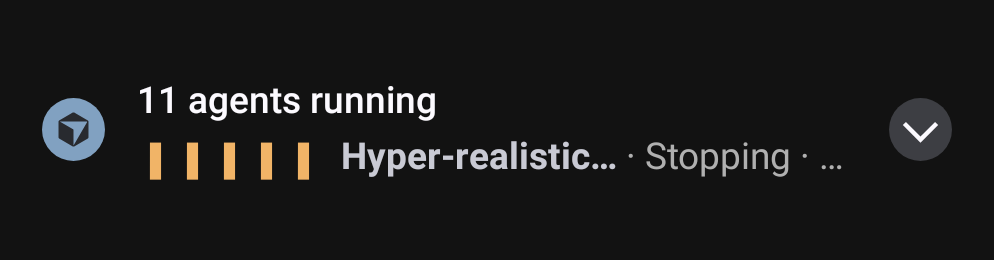
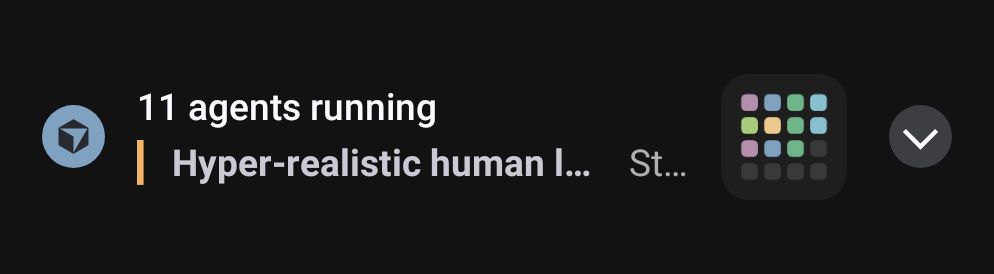
Live notifications: fleet mosaic and inbox rows for the roster card
Text-drawn progress bars are gone: Android 16 strips colour from promoted
text, so they degraded to tally marks. The roster's large icon is now a
mosaic of the fleet — a small tile per running agent in its hue on a grid
that grows with the count — and the rows read like an inbox: bold name,
muted verb and age, with a thin colour edge per agent below Android 16 and
a dot separator where colour cannot show.

diff --git a/app/src/main/java/com/cursorforandroid/notifications/LiveNotificationRenderer.kt b/app/src/main/java/com/cursorforandroid/notifications/LiveNotificationRenderer.kt
@@ -43,10 +43,11 @@ import com.cursorforandroid.util.TimeFormat
  *    has no room for the step), a determinate bar walks the run, a Stop action cancels it, and a cube tile in the
  *    agent's hue fills the large-icon slot. Android 16 promotes it as a `ProgressStyle` Live Update.
  *  - **Several running agents:** the roster card — one `BigTextStyle` notification (a promotable style; `InboxStyle`
- *    is not) with a row per tracked agent: a six-cell bar lit to the agent's progress, the name in bold, the verb
- *    and the elapsed time. Below Android 16 the bar takes the agent's hue; 16 strips colour spans from promoted
- *    text, so the bar's shape and the bold carry the row there. Stopping sorts first, then longest-running; agents
- *    beyond the tracking cap are a `+N more` tail row. The chip is the count. Tap opens the app.
+ *    is not). The large-icon slot holds a mosaic of the fleet, one small tile per running agent in its hue; the
+ *    body is a row per tracked agent — name in bold, verb and elapsed time muted, and below Android 16 a thin edge
+ *    in the agent's hue (16 strips colour spans from promoted text, so there the rows are plain bold-and-muted).
+ *    Stopping sorts first, then longest-running; agents beyond the tracking cap are a `+N more` tail row. The chip
+ *    is the count. Tap opens the app.
  *  - **A finished agent:** a dismissible card with "Finished", the title, "+80 −230 · 3 Files" (or the duration when
  *    no tool reported line counts), the final reply, and Review / View PR actions.
  *
@@ -65,8 +66,7 @@ object LiveNotificationRenderer {
     private const val GIT_REMOVED = 0xFFFC6B83.toInt()
     /** Ink for the cube on a tile: the theme's `onAccent`. */
     private const val TILE_INK = 0xFF191C22.toInt()
-    /** The hollow cells of a roster bar, and the muted text beside it. */
-    private const val BAR_TRACK = 0x66FFFFFF
+    /** The verb and age beside a roster name. */
     private const val MUTED = 0xFFB0B0B0.toInt()
     /** Cursor Dark's accent hues, dealt to agents by id so rows are told apart at a glance. */
     private val TILE_HUES = intArrayOf(
@@ -77,16 +77,17 @@ object LiveNotificationRenderer {
         0xFFEBC88D.toInt(), // code function
         0xFFA8CC7C.toInt(), // code string
     )
-    /** Roster bar: [BAR_CELLS] rectangles, lit (U+25AE) up to the journey progress and hollow (U+25AF) beyond. */
-    private const val BAR_CELLS = 5
-    private const val BAR_LIT = '\u25AE'
-    private const val BAR_HOLLOW = '\u25AF'
-    private const val ROW_GAP = "\u2002"
+    /** Roster row: a left-quarter block (U+258E) as the colour edge, then name, then a two-space column gap. */
+    private const val ROW_EDGE = "\u258E "
+    private const val ROW_GAP = "\u2002\u2002"
     private const val ROW_SEP = " \u00B7 "
-    /** Sized so `▮▮▯▯▯ Market replay en… · Delegating · 52m` stays on one line of the body at 14sp. */
-    private const val ROW_NAME_MAX = 16
+    /** Sized so `▎ Hyper-realistic human li…  Stopping · 6m` stays on one line of the body at 14sp. */
+    private const val ROW_NAME_MAX = 24
     private const val SUMMARY_MAX = 320
     private const val TILE_DP = 56
+    /** Mosaic cells beyond the running agents are this faint, so the grid also reads as a count. */
+    private const val MOSAIC_EMPTY = 0x1FFFFFFF
+    private const val MOSAIC_BG = 0xFF1E1E1E.toInt()
 
     /** Journey bar is 100 units. Phases pin the ends; the current verb walks the middle. */
     internal const val JOURNEY_MAX = 100
@@ -140,7 +141,7 @@ object LiveNotificationRenderer {
         return builder.build()
     }
 
-    /** The roster card: `5 agents running` over one spanned row per tracked agent. */
+    /** The roster card: `11 agents running`, the fleet mosaic, and one row per tracked agent. */
     internal fun roster(context: Context, state: LiveActivityState): Notification {
         val ordered = sortedForRoster(state.running)
         val hues = tileHues(ordered)
@@ -155,7 +156,7 @@ object LiveNotificationRenderer {
             .setStyle(NotificationCompat.BigTextStyle().setBigContentTitle(title).bigText(join(rows + listOfNotNull(tail))))
             .setShortCriticalText(count.toString())
             .setNumber(count)
-            // No tile: the body text flows around a large icon, and the rows want the full width.
+            .setLargeIcon(mosaic(context, ordered.map { hues.getValue(it.agentId) }, count))
             .setWhen(ordered.minOf { it.startedAtMillis })
             .setShowWhen(false)
             .setContentIntent(openApp(context))
@@ -247,23 +248,23 @@ object LiveNotificationRenderer {
     // ---- roster rows --------------------------------------------------------------------------------------
 
     /**
-     * `▮▮▮▮▯▯ Codex-Poly-Bot Scaling · Running · 34m`: a six-cell bar lit up to the agent's journey progress, the
-     * name in bold, then the verb and the age. The bar's *shape* carries the progress, because Android 16 strips
-     * every colour span from a promoted notification (only bold / italic / underline survive); on 15 and below the
-     * lit cells take the agent's [hue] (amber while stopping), the hollow cells and the detail go muted.
+     * `▎ Codex-Poly-Bot Scaling  Running · 34m`: the name in bold, then the verb and age muted, like an inbox row.
+     * Android 16 strips every colour span from a promoted notification (only bold / italic / underline survive), so
+     * there the row is just that; below 16 it opens with a thin edge in the agent's [hue] (amber while stopping).
+     * A white edge on 16 would be noise, so none is drawn where its colour cannot show.
      */
-    internal fun rosterRow(context: Context, run: TrackedRun, hue: Int, nowMillis: Long): CharSequence {
+    internal fun rosterRow(context: Context, run: TrackedRun, hue: Int, nowMillis: Long, colourSurvives: Boolean = Build.VERSION.SDK_INT < 36): CharSequence {
         val row = SpannableStringBuilder()
-        val lit = Math.round(journeyProgress(run) / JOURNEY_MAX.toFloat() * BAR_CELLS).coerceIn(1, BAR_CELLS)
-        row.append(BAR_LIT.toString().repeat(lit)).append(BAR_HOLLOW.toString().repeat(BAR_CELLS - lit))
-        row.setSpan(ForegroundColorSpan(if (run.phase == LivePhase.Stopping) ORANGE else hue), 0, lit, Spanned.SPAN_EXCLUSIVE_EXCLUSIVE)
-        if (lit < BAR_CELLS) row.setSpan(ForegroundColorSpan(BAR_TRACK), lit, BAR_CELLS, Spanned.SPAN_EXCLUSIVE_EXCLUSIVE)
-        row.append(ROW_GAP)
+        if (colourSurvives) {
+            row.append(ROW_EDGE)
+            row.setSpan(ForegroundColorSpan(if (run.phase == LivePhase.Stopping) ORANGE else hue), 0, row.length, Spanned.SPAN_EXCLUSIVE_EXCLUSIVE)
+        }
         val nameAt = row.length
         row.append(ellipsize(run.title, ROW_NAME_MAX))
         row.setSpan(StyleSpan(Typeface.BOLD), nameAt, row.length, Spanned.SPAN_EXCLUSIVE_EXCLUSIVE)
         val detailAt = row.length
-        row.append(ROW_SEP).append(rosterVerb(context, run))
+        // With colour the muted detail separates itself from the name; without it a dot has to.
+        row.append(if (colourSurvives) ROW_GAP else ROW_SEP).append(rosterVerb(context, run))
         row.append(ROW_SEP).append(TimeFormat.relativeShort(run.startedAtMillis, nowMillis))
         row.setSpan(ForegroundColorSpan(MUTED), detailAt, row.length, Spanned.SPAN_EXCLUSIVE_EXCLUSIVE)
         return row
@@ -340,7 +341,43 @@ object LiveNotificationRenderer {
         }
     }
 
-    /** Rounded square in [hue] with the official cube inked on it — the album-art slot on the live card. */
+    /**
+     * The fleet as one image for the roster's large-icon slot: a rounded dark square holding a grid of small tiles,
+     * one per running agent in its hue (the palette cycles past the tracked eight), the remaining cells of the grid
+     * faint — so the mosaic shows how many as well as which. 2×2 up to four agents, 3×3 up to nine, 4×4 beyond.
+     */
+    internal fun mosaic(context: Context, hues: List<Int>, total: Int): Bitmap {
+        val size = (TILE_DP * context.resources.displayMetrics.density).toInt().coerceAtLeast(128)
+        val bitmap = Bitmap.createBitmap(size, size, Bitmap.Config.ARGB_8888)
+        val canvas = Canvas(bitmap)
+        val paint = Paint(Paint.ANTI_ALIAS_FLAG)
+        val radius = size * 0.22f
+        paint.color = MOSAIC_BG
+        canvas.drawRoundRect(0f, 0f, size.toFloat(), size.toFloat(), radius, radius, paint)
+        val grid = mosaicGrid(total)
+        val cells = (0 until grid * grid).map { index -> if (index < total) hues[index % hues.size.coerceAtLeast(1)] else MOSAIC_EMPTY }
+        val inset = size * 0.16f
+        val gap = size * 0.05f
+        val cell = (size - 2 * inset - (grid - 1) * gap) / grid
+        val cellRadius = cell * 0.28f
+        cells.forEachIndexed { index, colour ->
+            val col = index % grid
+            val row = index / grid
+            val left = inset + col * (cell + gap)
+            val top = inset + row * (cell + gap)
+            paint.color = colour
+            canvas.drawRoundRect(left, top, left + cell, top + cell, cellRadius, cellRadius, paint)
+        }
+        return bitmap
+    }
+
+    internal fun mosaicGrid(total: Int): Int = when {
+        total <= 4 -> 2
+        total <= 9 -> 3
+        else -> 4
+    }
+
+    /** Rounded square in [hue] with the official cube inked on it — the album-art slot on the single-agent card. */
     internal fun tile(context: Context, hue: Int): Bitmap {
         val size = (TILE_DP * context.resources.displayMetrics.density).toInt().coerceAtLeast(128)
         val bitmap = Bitmap.createBitmap(size, size, Bitmap.Config.ARGB_8888)

diff --git a/app/src/test/java/com/cursorforandroid/notifications/LiveNotificationRendererTest.kt b/app/src/test/java/com/cursorforandroid/notifications/LiveNotificationRendererTest.kt
@@ -56,8 +56,9 @@ class LiveNotificationRendererTest {
     private fun Notification.actionTitles() = actions.orEmpty().map { it.title.toString() }
     private fun Notification.chip() = NotificationCompat.getShortCriticalText(this)
 
-    /** A roster row without its bar cells and gap, e.g. `Cesium Revenue… · Thinking · 4m`. */
-    private fun String.afterBar() = trimStart('\u25AE', '\u25AF', '\u2002')
+    /** A roster row without its colour edge, e.g. `Cesium Revenue Strategy  Thinking · 4m`. */
+    private fun String.afterEdge() = removePrefix("\u258E ")
+    private fun String.name() = afterEdge().substringBefore('\u2002')
 
     @Test
     fun `single running agent is one promoted card with the step, a chronometer and Stop`() {
@@ -114,21 +115,18 @@ class LiveNotificationRendererTest {
 
         assertThat(n.title()).isEqualTo("3 agents running")
         assertThat(n.extras.getString(Notification.EXTRA_TEMPLATE)).endsWith("BigTextStyle")
-        assertThat(n.rows().map { it.afterBar() }).containsExactly(
-            "Update quick ac\u2026 \u00B7 Editing \u00B7 34m",
-            "Cesium Revenue\u2026 \u00B7 Thinking \u00B7 34m",
-            "Codex-Poly-Bot\u2026 \u00B7 Running \u00B7 34m",
+        assertThat(n.rows().map { it.afterEdge() }).containsExactly(
+            "Update quick action pil\u2026\u2002\u2002Editing \u00B7 34m",
+            "Cesium Revenue Strategy\u2002\u2002Thinking \u00B7 34m",
+            "Codex-Poly-Bot Scaling\u2002\u2002Running \u00B7 34m",
         ).inOrder()
-        // Every row opens with a five-cell bar lit to the step: editing 3, thinking 1, running 3.
-        assertThat(n.rows().map { it.substringBefore('\u2002') }).containsExactly(
-            "\u25AE\u25AE\u25AE\u25AF\u25AF",
-            "\u25AE\u25AF\u25AF\u25AF\u25AF",
-            "\u25AE\u25AE\u25AE\u25AF\u25AF",
-        ).inOrder()
+        // Below Android 16 every row opens with its colour edge.
+        n.rows().forEach { assertThat(it).startsWith("\u258E ") }
         assertThat(n.text()).isEqualTo(n.rows().first())
         assertThat(n.chip()).isEqualTo("3")
         assertThat(n.number).isEqualTo(3)
-        assertThat(n.getLargeIcon()).isNull()
+        // The fleet mosaic sits in the large-icon slot.
+        assertThat(n.getLargeIcon()).isNotNull()
         assertThat(n.extras.getBoolean(Notification.EXTRA_COLORIZED)).isFalse()
         assertThat(n.extras.getBoolean(Notification.EXTRA_SHOW_CHRONOMETER)).isFalse()
         assertThat(n.flags and Notification.FLAG_ONGOING_EVENT).isNotEqualTo(0)
@@ -137,28 +135,41 @@ class LiveNotificationRendererTest {
     }
 
     @Test
-    fun `roster rows light the bar in the agent hue, amber while stopping, with the name in bold`() {
+    fun `roster rows edge in the agent hue, amber while stopping, name in bold, detail muted`() {
         val run = running("bc-1", "Agent")
-        val row = LiveNotificationRenderer.rosterRow(context, run, hue = 0xFFB48EAD.toInt(), nowMillis = startedAt + 90_000) as Spanned
-        val barColors = row.getSpans(0, 5, ForegroundColorSpan::class.java).sortedBy { row.getSpanStart(it) }
-        // Editing sits at 62 of 100: three lit cells, two hollow.
-        assertThat(barColors.map { row.getSpanStart(it) to row.getSpanEnd(it) }).containsExactly(0 to 3, 3 to 5).inOrder()
-        assertThat(barColors.first().foregroundColor).isEqualTo(0xFFB48EAD.toInt())
-        assertThat(barColors.last().foregroundColor).isEqualTo(0x66FFFFFF)
+        val row = LiveNotificationRenderer.rosterRow(context, run, hue = 0xFFB48EAD.toInt(), nowMillis = startedAt + 90_000, colourSurvives = true) as Spanned
+        assertThat(row.toString()).isEqualTo("\u258E Agent\u2002\u2002Editing \u00B7 1m")
+        val edge = row.getSpans(0, 2, ForegroundColorSpan::class.java).single()
+        assertThat(edge.foregroundColor).isEqualTo(0xFFB48EAD.toInt())
+        assertThat(row.getSpanStart(edge) to row.getSpanEnd(edge)).isEqualTo(0 to 2)
         val bold = row.getSpans(0, row.length, StyleSpan::class.java).single()
         assertThat(bold.style).isEqualTo(Typeface.BOLD)
         assertThat(row.subSequence(row.getSpanStart(bold), row.getSpanEnd(bold)).toString()).isEqualTo("Agent")
-        assertThat(row.toString().afterBar()).isEqualTo("Agent \u00B7 Editing \u00B7 1m")
+        val muted = row.getSpans(row.getSpanEnd(bold), row.length, ForegroundColorSpan::class.java).single()
+        assertThat(row.subSequence(row.getSpanStart(muted), row.getSpanEnd(muted)).toString()).isEqualTo("\u2002\u2002Editing \u00B7 1m")
 
-        val stopping = LiveNotificationRenderer.rosterRow(context, run.copy(phase = LivePhase.Stopping), hue = 0xFFB48EAD.toInt(), nowMillis = startedAt) as Spanned
-        assertThat(stopping.toString().substringBefore('\u2002')).isEqualTo("\u25AE".repeat(5))
-        val lit = stopping.getSpans(0, 5, ForegroundColorSpan::class.java).single()
-        assertThat(lit.foregroundColor).isEqualTo(0xFFF1B467.toInt())
-        assertThat(stopping.toString().afterBar()).isEqualTo("Agent \u00B7 Stopping \u00B7 now")
+        val stopping = LiveNotificationRenderer.rosterRow(context, run.copy(phase = LivePhase.Stopping), hue = 0xFFB48EAD.toInt(), nowMillis = startedAt, colourSurvives = true) as Spanned
+        assertThat(stopping.getSpans(0, 2, ForegroundColorSpan::class.java).single().foregroundColor).isEqualTo(0xFFF1B467.toInt())
+        assertThat(stopping.toString()).isEqualTo("\u258E Agent\u2002\u2002Stopping \u00B7 now")
+
+        // Android 16 strips colour from promoted text: no edge, and a dot separates name from verb instead of the gap.
+        val plain = LiveNotificationRenderer.rosterRow(context, run, hue = 0xFFB48EAD.toInt(), nowMillis = startedAt, colourSurvives = false) as Spanned
+        assertThat(plain.toString()).isEqualTo("Agent \u00B7 Editing \u00B7 now")
+        assertThat(plain.getSpans(0, plain.length, StyleSpan::class.java).single().style).isEqualTo(Typeface.BOLD)
 
         // A two-word verb keeps only its first word: the row has no room for the subject.
-        val delegating = LiveNotificationRenderer.rosterRow(context, running("bc-2", "B", activity = RunDigest.Activity("Delegating to", "3 subagents")), hue = 0, nowMillis = startedAt)
-        assertThat(delegating.toString().afterBar()).isEqualTo("B \u00B7 Delegating \u00B7 now")
+        val delegating = LiveNotificationRenderer.rosterRow(context, running("bc-2", "B", activity = RunDigest.Activity("Delegating to", "3 subagents")), hue = 0, nowMillis = startedAt, colourSurvives = false)
+        assertThat(delegating.toString()).isEqualTo("B \u00B7 Delegating \u00B7 now")
+    }
+
+    @Test
+    fun `the fleet mosaic grows its grid with the count`() {
+        assertThat(LiveNotificationRenderer.mosaicGrid(2)).isEqualTo(2)
+        assertThat(LiveNotificationRenderer.mosaicGrid(4)).isEqualTo(2)
+        assertThat(LiveNotificationRenderer.mosaicGrid(5)).isEqualTo(3)
+        assertThat(LiveNotificationRenderer.mosaicGrid(9)).isEqualTo(3)
+        assertThat(LiveNotificationRenderer.mosaicGrid(11)).isEqualTo(4)
+        assertThat(LiveNotificationRenderer.mosaic(context, listOf(0xFF81A1C1.toInt()), 11).width).isAtLeast(128)
     }
 
     @Test
@@ -170,7 +181,7 @@ class LiveNotificationRendererTest {
         assertThat(n.number).isEqualTo(12)
         assertThat(n.chip()).isEqualTo("12")
         assertThat(n.rows()).hasSize(9)
-        assertThat(n.rows().take(8).map { it.afterBar().substringBefore(" \u00B7 ") }).containsExactlyElementsIn((1..8).map { "Agent $it" }).inOrder()
+        assertThat(n.rows().take(8).map { it.name() }).containsExactlyElementsIn((1..8).map { "Agent $it" }).inOrder()
         assertThat(n.rows().last()).isEqualTo("+4 more")
     }
 
@@ -198,7 +209,7 @@ class LiveNotificationRendererTest {
         val newer = running("bc-3", "Newer").copy(startedAtMillis = startedAt + 120_000)
         val n = LiveNotificationRenderer.live(context, LiveActivityState(listOf(newer, older, stopping), hasReconciled = true))
 
-        assertThat(n.rows().map { it.afterBar().substringBefore(" \u00B7 ") }).containsExactly("Stopping now", "Older", "Newer").inOrder()
+        assertThat(n.rows().map { it.name() }).containsExactly("Stopping now", "Older", "Newer").inOrder()
         assertThat(LiveNotificationRenderer.sortedForRoster(listOf(newer, older, stopping)).map { it.agentId })
             .containsExactly("bc-2", "bc-1", "bc-3")
             .inOrder()

diff --git a/app/src/test/java/com/cursorforandroid/screenshots/NotificationScreenshotTest.kt b/app/src/test/java/com/cursorforandroid/screenshots/NotificationScreenshotTest.kt
@@ -84,9 +84,16 @@ class NotificationScreenshotTest {
     @Test
     @Config(sdk = [36])
     fun progressStyleApi36() {
-        capture("32_notif_single_progress_api36", singleRunning(), expanded = true)
-        capture("33_notif_roster_api36", roster(), expanded = true)
+        capture("32_notif_single_progress_api36", singleRunning().promoted(), expanded = true)
+        capture("33_notif_roster_api36", roster().promoted(), expanded = true)
     }
+
+    /**
+     * Marks the notification the way the system does once it accepts it as a Live Update. Robolectric has no
+     * promotion pipeline, so without this Android 16's template renders the demoted fallback (all styling stripped)
+     * rather than what the shade shows for a promoted card (bold kept, colour spans stripped).
+     */
+    private fun Notification.promoted(): Notification = apply { flags = flags or Notification.FLAG_PROMOTED_ONGOING }
 
     private fun singleRunning(): Notification = LiveNotificationRenderer.live(
         context,
